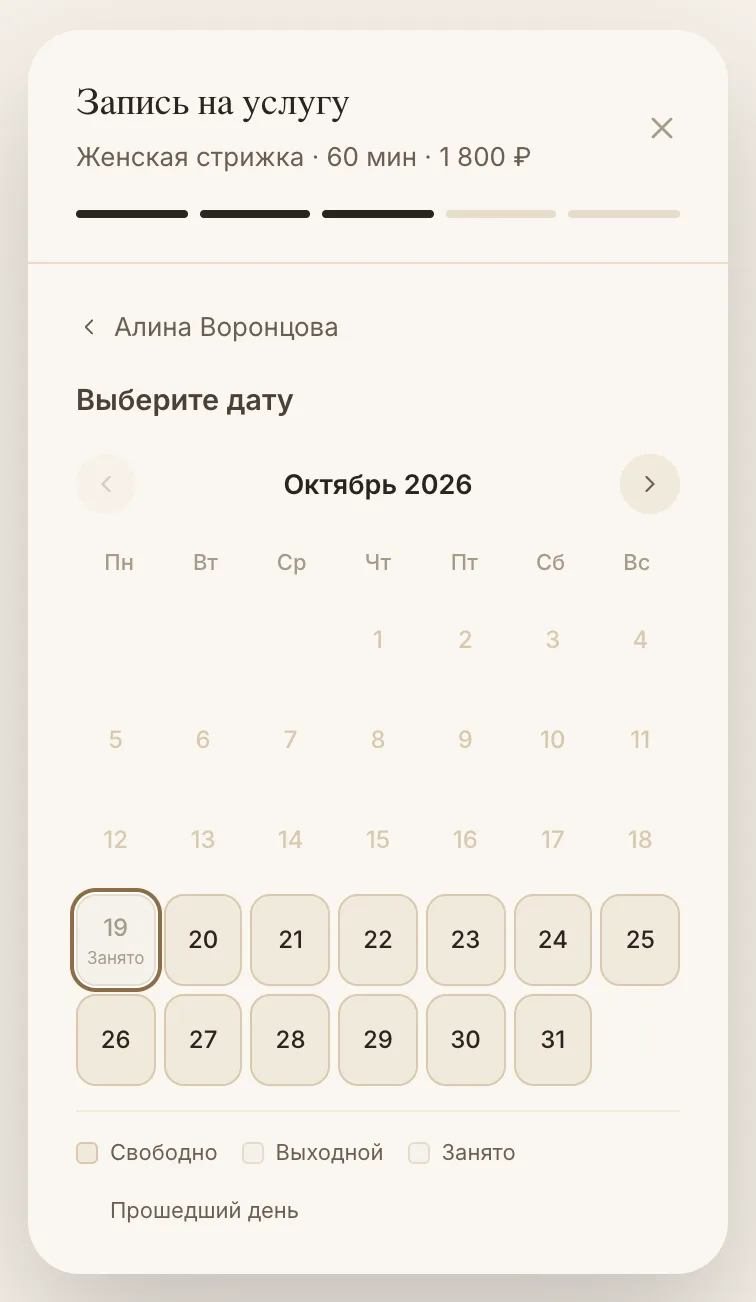
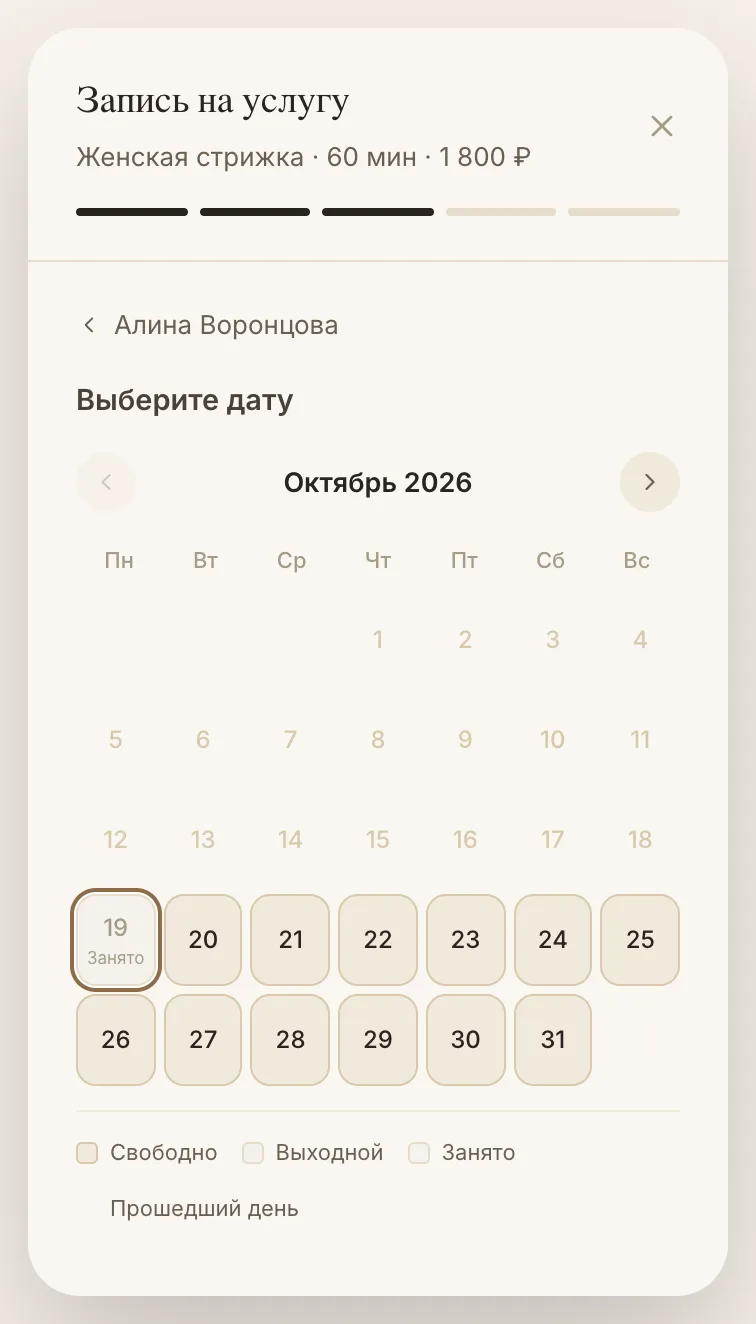
fix(zapis): кадры карусели записи одного размера — окно записи на всю предельную высоту, шаг сверху

diff --git a/frontend/src/assets/screenshots/zapis/shots.test.ts b/frontend/src/assets/screenshots/zapis/shots.test.ts
@@ -31,6 +31,9 @@ describe('zapis screenshots', () => {
     expect(manifest.capturedAt).toBeTruthy()
     expect(manifest.sourceCommit).toBeTruthy()
     expect(manifest.bookingFlow.slides.map((x: { key: string }) => x.key)).toEqual(FLOW)
+    // Все кадры карусели одного размера — иначе при листании блок выглядит рваным.
+    const sizes = new Set(manifest.bookingFlow.slides.map((x: { cssWidth: number; cssHeight: number }) => `${x.cssWidth}x${x.cssHeight}`))
+    expect(sizes.size).toBe(1)
     for (const sl of manifest.bookingFlow.slides) {
       expect(sl.cssWidth).toBeLessThanOrEqual(390)
       expect(Number.isInteger(sl.cssHeight) && sl.cssHeight > 0 && sl.cssHeight <= 720).toBe(true)

diff --git a/frontend/scripts/screenshots/README.md b/frontend/scripts/screenshots/README.md
@@ -125,7 +125,8 @@ npm run test:run -- src/assets/screenshots/zapis src/components/landing src/page
 
 Если Vite уже запущен на :55173 (например, превью), передайте `SHOTS_WEB_URL=http://localhost:55173`.
 
-Что меняется в кадрах и почему. На шаге времени скрыты слоты после четвёртого ряда — чтобы кадр не вытягивался.
+Что меняется в кадрах и почему. Окно записи растянуто до своей предельной высоты, чтобы все кадры карусели были одного размера
+(шаг — сверху, как на экране телефона); на шаге времени скрыты слоты после четвёртого ряда.
 Из кадра «Мои записи» убирается метка доставки напоминания. На стенде у салона нет каналов уведомлений, и сервер
 пишет «напоминание пропущено» — у салона с подключённым каналом там «ожидает отправки». Скрипт убирает ровно эти метки (и падает
 с кодом 5, если их число не совпало с числом записей), всё остальное снимается как есть. Окно записи снимается на ровном
